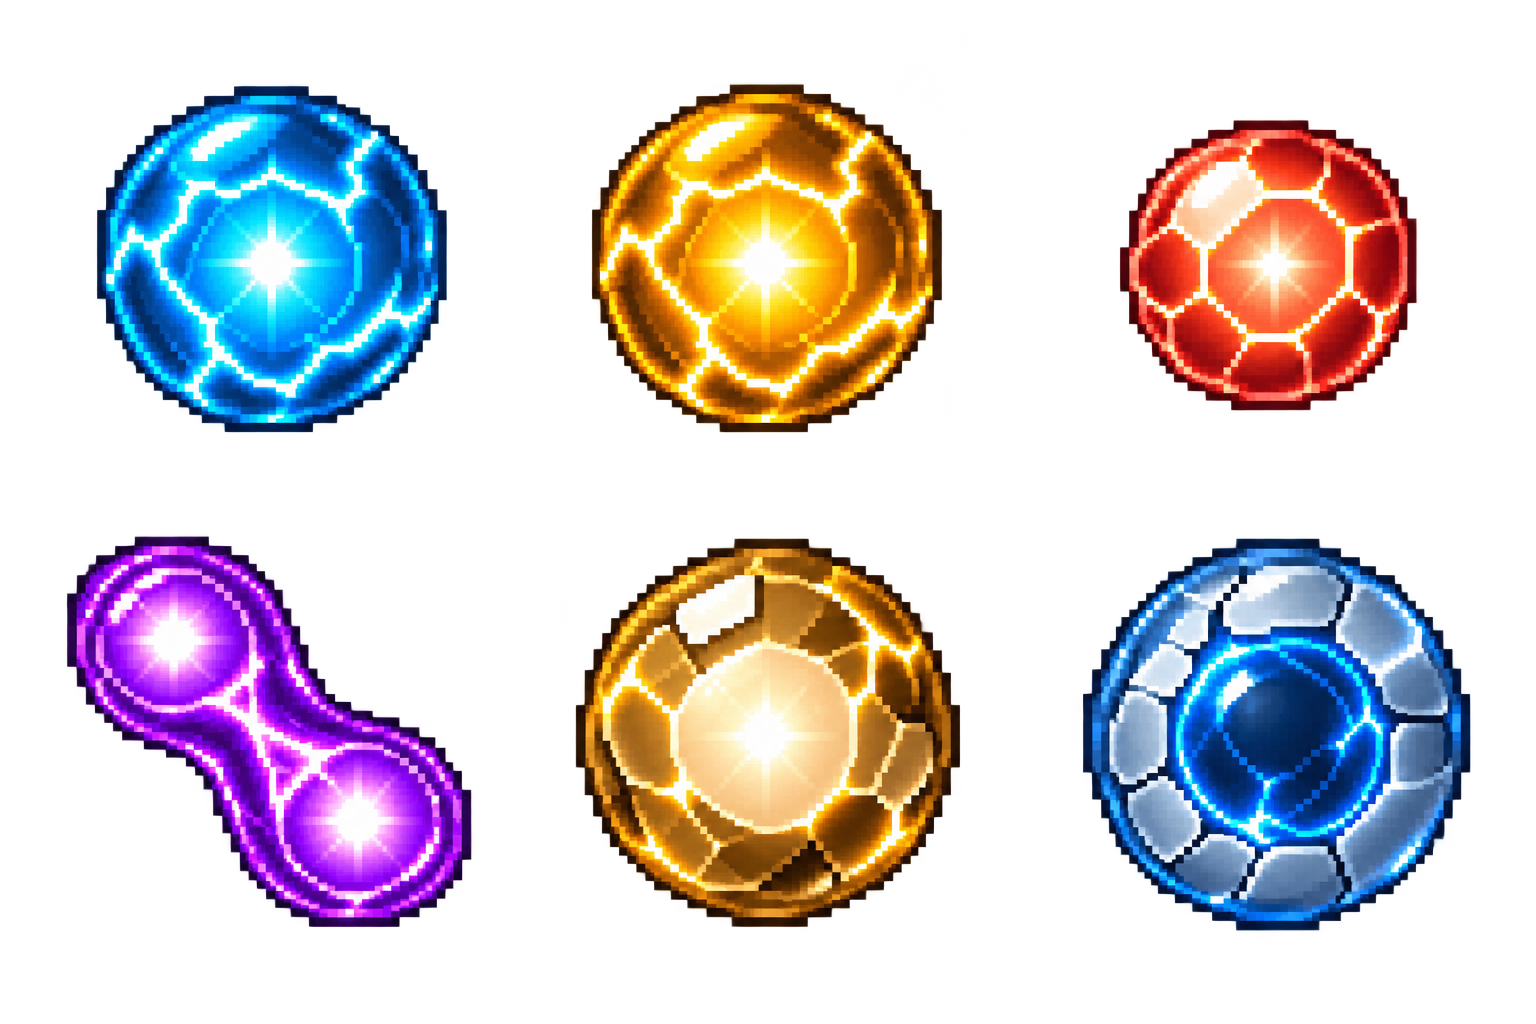
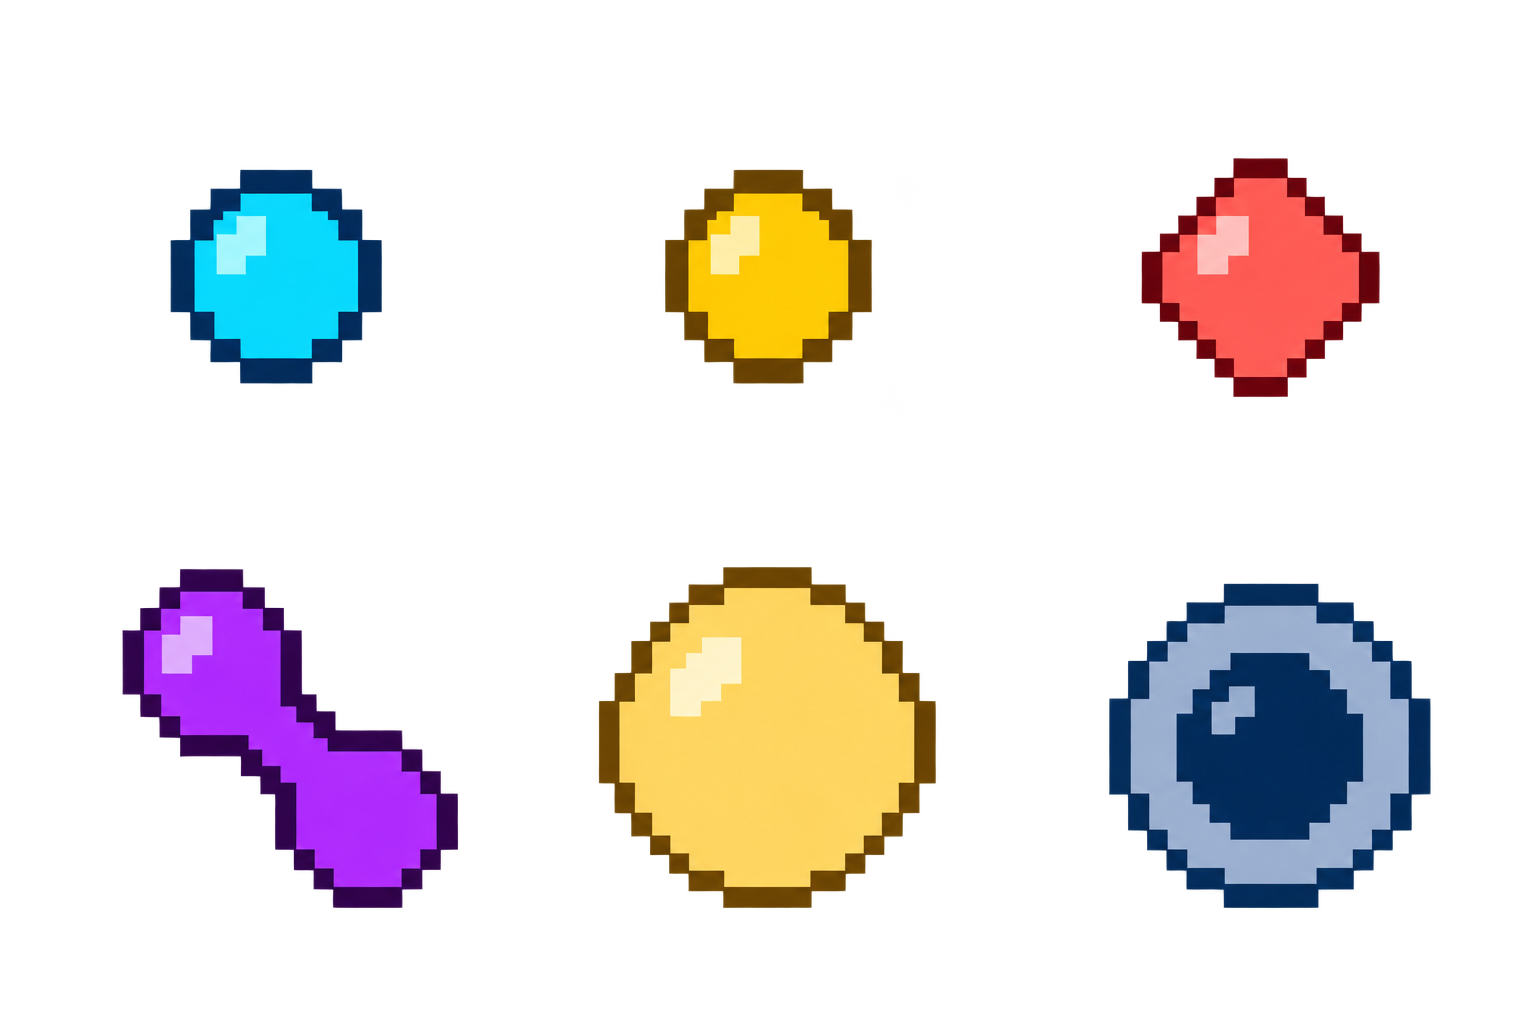
Simplify particle artwork for crowded gameplay

diff --git a/assets/icon-art/README.md b/assets/icon-art/README.md
@@ -1,6 +1,6 @@
 # Generated game artwork
 
-The current artwork was created with the built-in image generation tool in two artistic stages: illustrated source images, then pixel-art reinterpretations. The final particle sheet also received a transparent-background extraction pass.
+The current artwork was created with the built-in image generation tool. Skill illustrations were reinterpreted as detailed pixel icons. Particle illustrations were simplified into quiet, flat pixel sprites for crowded gameplay, using broad color clusters, minimal highlights and distinct silhouettes.
 
 | Source                  | Pixel artwork             | Runtime atlas                     |
 | ----------------------- | ------------------------- | --------------------------------- |
@@ -33,8 +33,10 @@ Using the skill illustrations as a style reference only, generate a matching ori
 
 ### Particle pixel conversion
 
-Redraw the same six particles as authentic 32×32 pixel-art sprites. Preserve their exact cell order, hues and recognizable shapes. Keep the cyan and gold electron silhouettes alike, the muon elongated diagonally, and the neutron dark-centered with a pale shell. Purposeful one-pixel stepped edges, solid color clusters, rim highlights, controlled shading and transparent margins. Remove backgrounds and atmospheric clouds; no labels or extra particle forms.
+Use case: style-transfer. Edit target: the six-particle atlas. Redraw these six sprites much more simply for a crowded dark pixel-art survival game, where hundreds of particles are visible at 11–17 screen pixels. Deliver one transparent PNG atlas with exactly three equal square columns and two rows, generous transparent gutters, one centered sprite per cell. Exact order: top row cyan electron, gold electron surge, salmon/coral quark; bottom row violet muon, pale-gold proton, slate-blue neutron. Preserve identity and overall silhouette but entirely remove elaborate surface decoration.
 
-### Particle background extraction
+Art direction: calm, clean, minimal flat pixel art, as if made directly on a 16×16 pixel grid. Each sprite uses two or three solid colors, broad uninterrupted color clusters and crisp stepped edges. No gradients, glossy faceted surfaces, white starburst cores, veins, electrical cracks, bright mesh, sparkles, noisy scattered pixels, glow or halos. Do not merely blur the detailed original; redraw its basic silhouette as restrained minimalist pixel art.
 
-Keep the six pixel-art particle designs, colors, material highlights and exact three-column two-row layout. Remove surrounding background clouds and halos. Preserve crisp silhouette edges and true alpha transparency around each sprite; no opaque cell backgrounds, text or additional objects.
+Cyan electron is a small plain round cyan bead with a dark blue edge and one tiny subdued lighter-cyan upper-left highlight. Surge electron uses the identical round silhouette in golden yellow with a dark amber edge and a small soft-yellow solid pixel highlight, not white. Quark is a plain small coral rounded diamond with a dark red edge and one subdued salmon highlight. Muon is a simple diagonal elongated capsule/dumbbell with two purple lobes and a short thick solid connector, no individual glowing cores, at most one small lavender highlight. Proton is a larger plain pale-gold round bead with dark ochre edge and one subdued cream highlight, no brilliant central core. Neutron is a larger simple slate-blue ring with an unpatterned dark blue center, at most one gray-blue highlight.
+
+All six forms have similarly quiet brightness and only minimal shading. Their subject bounds occupy about 65% of each square cell. Pure transparent alpha outside the silhouettes; no black canvas, checkerboard, background fog, tile outlines, text, labels, atom diagrams or additional objects. Pixel art should stay clean at native small game size and visually quiet in a crowded field.
